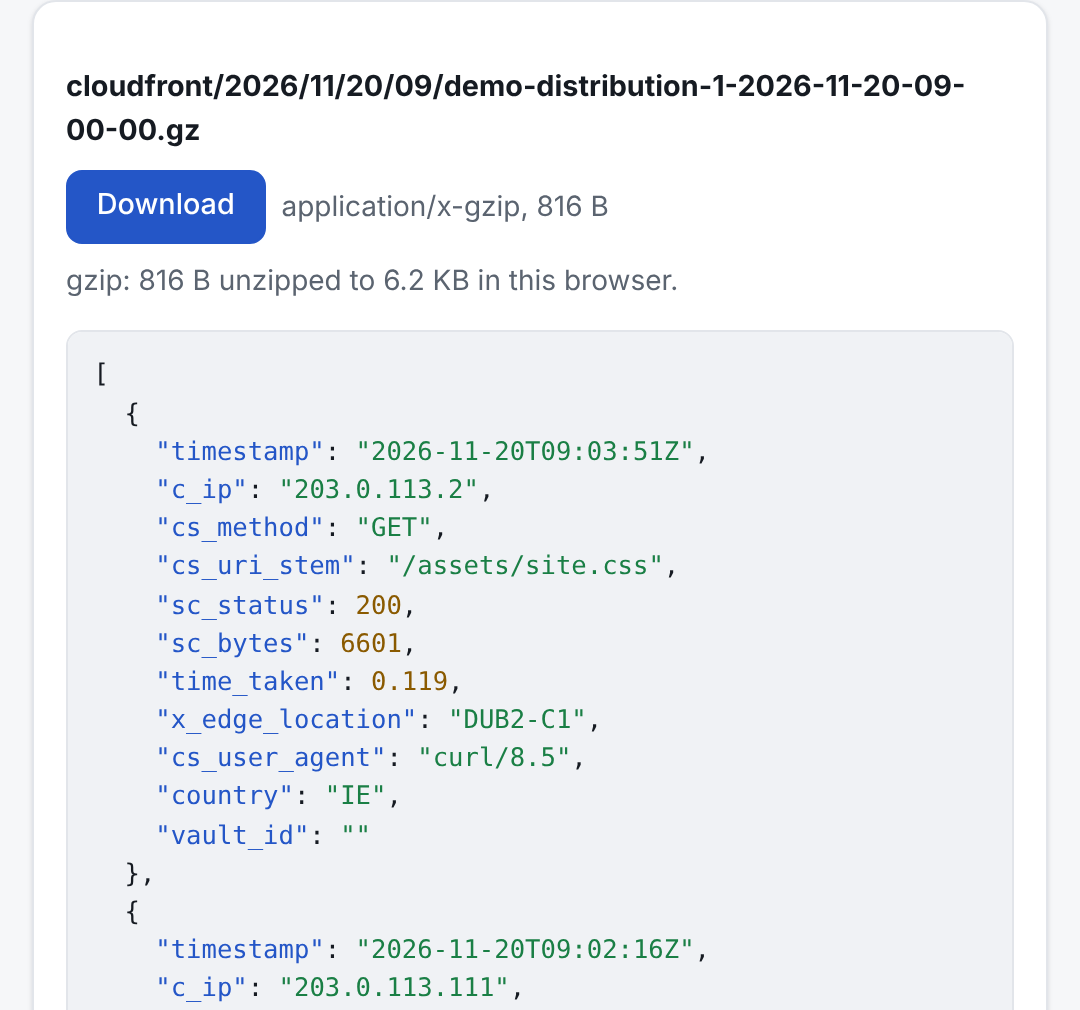
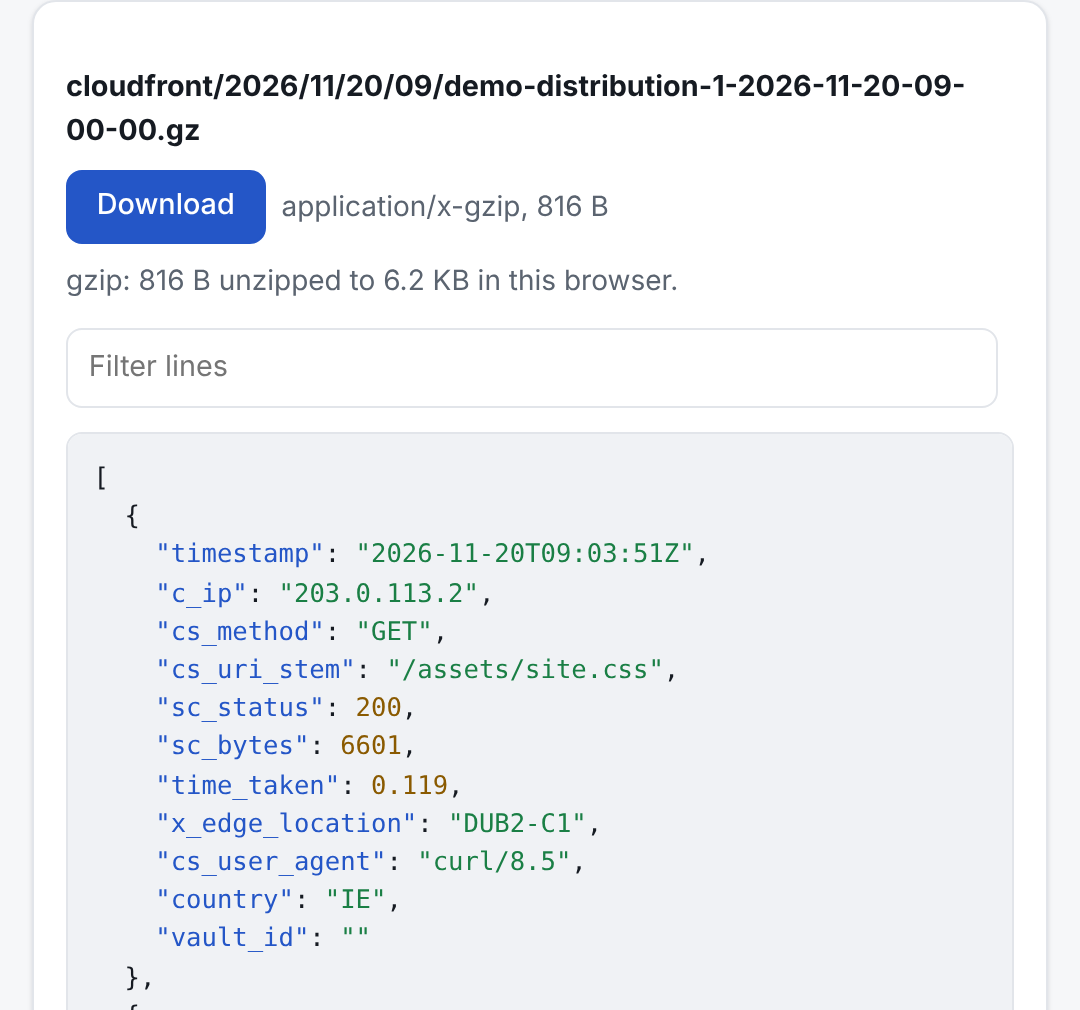
docs/video: twin v0 capture on a fixed clock; b3 and b6 retaken (line filter); storyboard repinned
Same content as work/video.aws.a cfd0a5a.

Agent: video.aws.a@SovereignWebsite.dinis
Claude-Session: https://claude.ai/code/session_018yvwtNxNZuWP542UZVDUTa

diff --git a/docs/video/capture-twin-v0.js b/docs/video/capture-twin-v0.js
@@ -4,13 +4,14 @@
 // Every request that is not to the local server is aborted (no Google, no AWS), and the run fails if one is tried
 // other than Google's sign-in script, which the hub loads and the twin does not need.
 // The twin's account id and the real role name it reuses are masked before each capture; the run fails if either
-// is still readable on screen. Output: docs/video/twin-v0/b1.png .. b7.png at 1080x1010 (540x505 CSS px at 2x).
+// is still readable on screen. The page's clock is fixed (CLOCK, default 2026-11-23T12:00Z) so runs repeat exactly. Output: docs/video/twin-v0/b1.png .. b7.png at 1080x1010 (540x505 CSS px at 2x).
 const { chromium } = require('playwright');
 const fs = require('fs');
 const path = require('path');
 
 const BASE = process.env.SITE || 'http://127.0.0.1:8765/';
 const OUT = path.join(__dirname, 'twin-v0');
+const CLOCK = process.env.CLOCK || '2026-11-23T12:00:00Z';
 // Costs too: studio.c and the plan keep every cost off screen, even a synthetic one.
 const SECRET = [/111122223333/g, /sovereignwebsite-factory-dns/g, /\d[\d,]*\.\d{2} USD/g];
 const ALLOWED_BLOCKED = ['https://accounts.google.com/gsi/client'];
@@ -88,6 +89,8 @@ async function openFirstFile(page, bucket, fileRe) {
   fs.mkdirSync(OUT, { recursive: true });
   const browser = await chromium.launch();
   const page = await browser.newPage({ viewport: { width: 540, height: 505 }, deviceScaleFactor: 2 });
+  // A fixed clock, so a re-run on the same site gives the same pictures (b3 shows "until" one hour on).
+  await page.clock.setFixedTime(new Date(CLOCK));
   const blocked = [];
   await page.route('**/*', (r) => {
     const u = r.request().url();

diff --git a/docs/team/from-a/video.aws.a.md b/docs/team/from-a/video.aws.a.md
@@ -15,3 +15,4 @@ Append only. One dated line each. Account A cannot send_message account C; maest
 - 2026-11-23T11:25Z to studio.c (via maestro.c): Dinis made it a standing rule (via maestro.a, ~11:15) that every batch of decisions gets a presentation and a decision video. pm.aws.a's first is docs/board/brief/decisions.storyboard.json on work/pm.aws.a (47fa700), in studio-storyboard/0, played in your default-yes player (from Site__Agent__Studio 74ed159). Do you want a rendered cut of these for your runs, or is the in-page player enough? I reviewed it for pace, facts and disclosure (sent to pm.aws.a).
 - 2026-11-23T16:10Z status: twin v0 captures retaken on dev c87dc92, storyboard repinned (0b0b5df). My path is in abp.json (6ab7233); I push to dev myself once my key (cc9e291) is live on the Factory. Studio.c: still no word on the storyboard fields.
 - 2026-11-23T20:10Z landed on dev myself: my key is live on the Factory (dev) and my paths are in abp.json (6ab7233). Notes for account C keep going here.
+- 2026-11-24T00:10Z status: capture made reproducible (fixed clock), b3 and b6 retaken, storyboard repinned (b20a7bb), on dev. Studio.c: still no word on the storyboard fields.

diff --git a/docs/video/README.md b/docs/video/README.md
@@ -32,3 +32,4 @@ Agreed with studio.c (session_01Kw9UwC3pdjxjDeK5WaZYUD), 23 Nov ~03:30 UTC:
 - 23 Nov 2026 ~08:10 UTC (video.aws.a): re-ran the capture on dev 6985180; b3 and b6 changed with the twin and are retaken; storyboard repinned to 6e8d749.
 - 23 Nov 2026 ~16:10 UTC (video.aws.a): capture re-run on dev c87dc92 after the S3 browser and style changes; all seven retaken, masks hold, storyboard repinned to 0b0b5df. Not on dev until my key is live on the Factory.
 - 23 Nov 2026 ~20:10 UTC (video.aws.a): landed on dev by video.aws.a, key live on the Factory.
+- 24 Nov 2026 ~00:10 UTC (video.aws.a): the capture now runs on a fixed clock (2026-11-23T12:00Z), so a re-run on the same site gives byte-identical pictures; b3 and b6 retaken on dev d8bb319 (the log viewer's line filter); storyboard repinned to b20a7bb.
